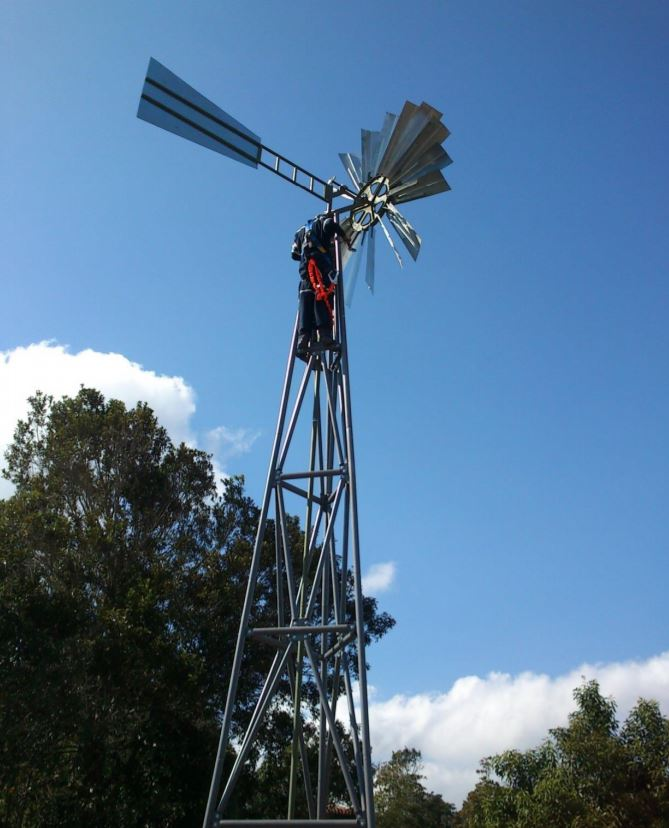
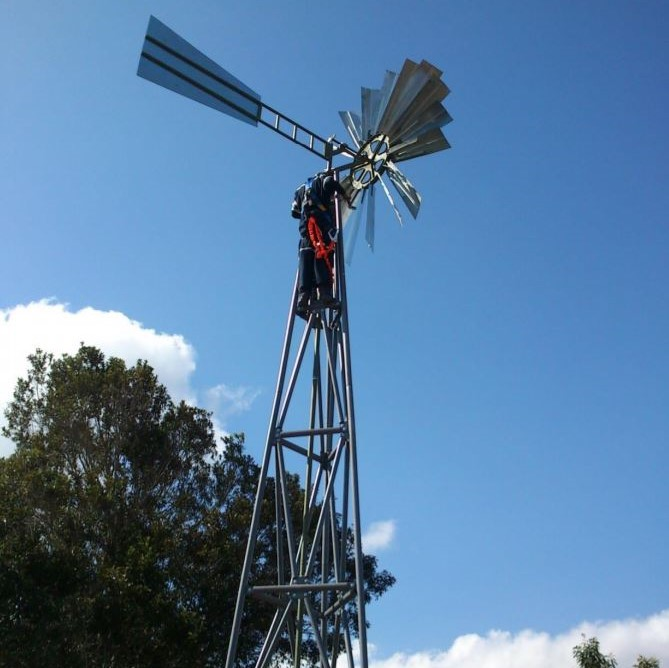
Editando as imagens para uma melhor apariência e consertando um pequeno erro no formulario textarea

diff --git a/index.html b/index.html
@@ -302,8 +302,7 @@
                 </label>
                 <label>
                     <p>Mensagem</p>
-                    <textarea name="mensagem de visitante" cols="35" rows= "25" placeholder="Fala comigo, me dê a sua opinião, ou me pergunte o que quiser" required>
-                    </textarea>
+                    <textarea name="mensagem de visitante" rows= "25" cols="35"  placeholder="Fala comigo, me dê a sua opinião, ou me pergunte o que quiser" required></textarea>
                 </label>
                 <button type="submit">Enviar</button>
             </form>

diff --git a/style.css b/style.css
@@ -1088,8 +1088,6 @@ footer div img{
         justify-self: center;
     }
 
-    
-
     footer{
         display: flex;
         display: row;
